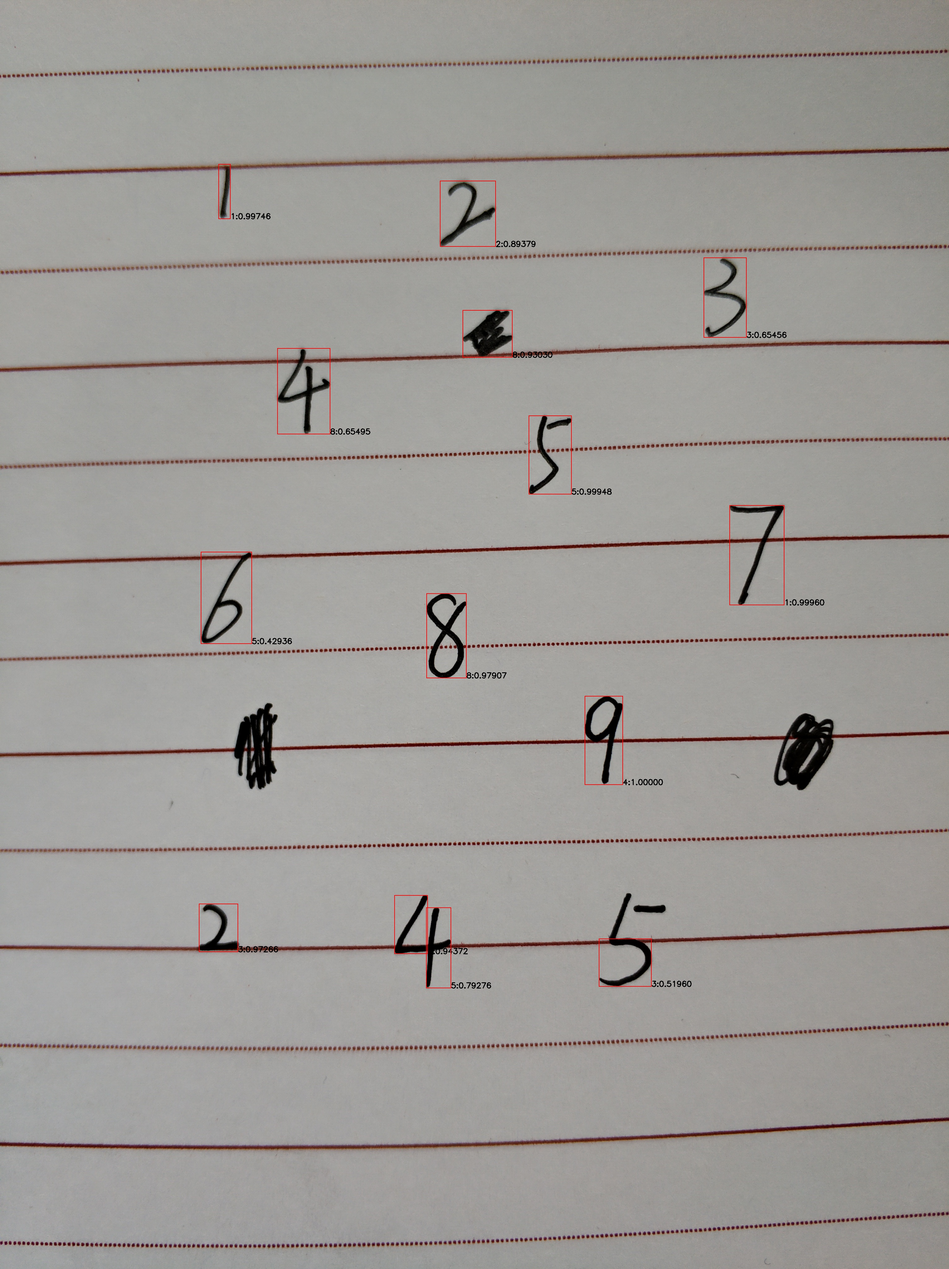
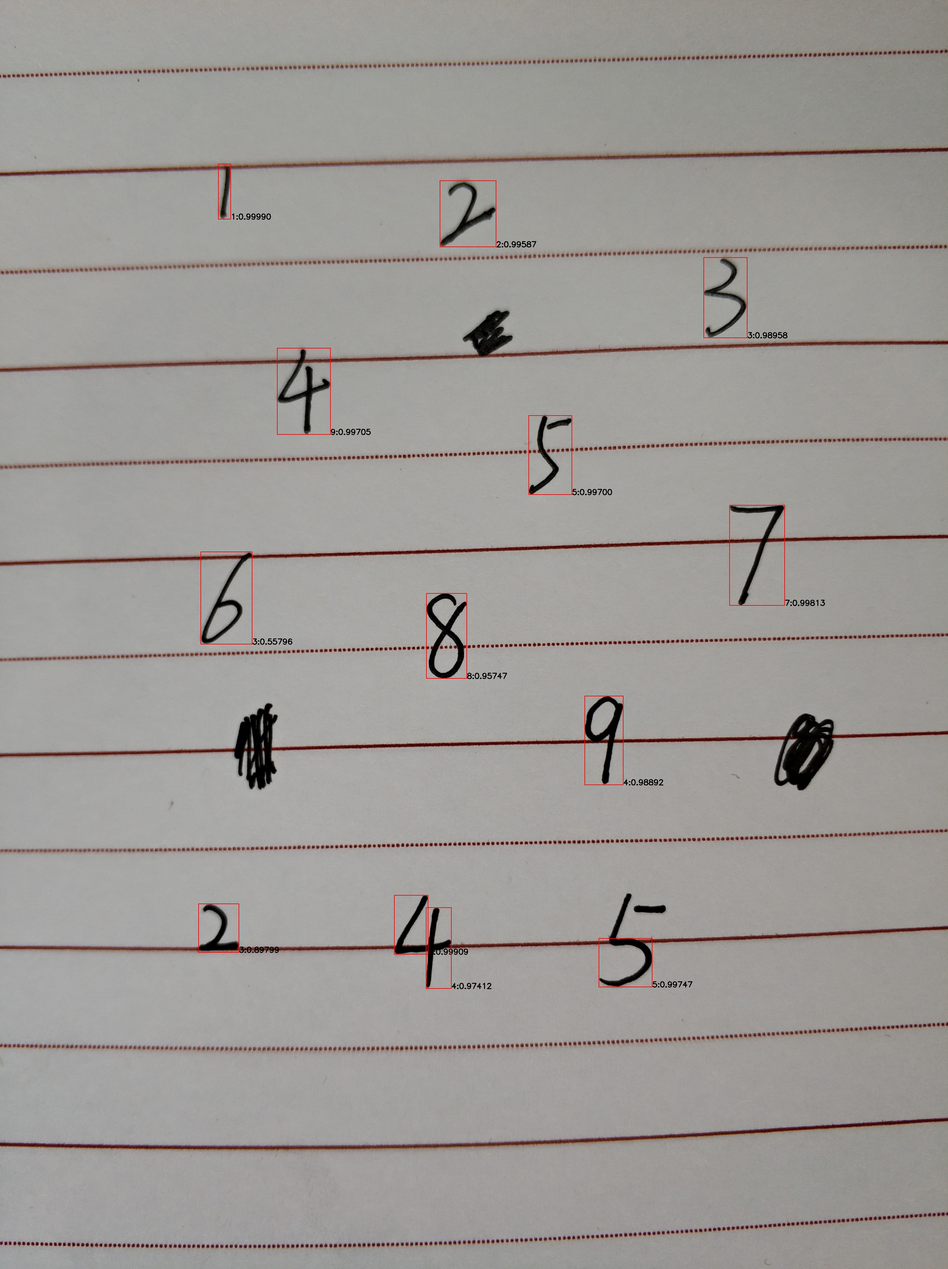
notebook detection2

diff --git a/detection2.py b/detection2.py
@@ -1,0 +1,306 @@
+# 对将要识别的图片进行二值化、广搜并画出红框，对框内数字进行识别
+# 背景作业本，要求手写的数字不粘连，允许噪点和污渍
+import cv2
+import queue
+import numpy
+from pylab import *
+from delete_line import *
+import tensorflow as tf
+from tensorflow.examples.tutorials.mnist import input_data
+
+mnist = input_data.read_data_sets("MNIST_data/", one_hot=True) # 获取数据集
+
+# 机器学习模型
+def weight_variable(shape):
+    initial = tf.truncated_normal(shape, stddev=0.1)
+    return tf.Variable(initial)
+
+def bias_variable(shape):
+    initial = tf.constant(0.1, shape=shape)
+    return tf.Variable(initial)
+
+# 加载数据
+mnist = input_data.read_data_sets("MNIST_data/", one_hot=True)
+x = tf.placeholder(tf.float32, [None, 784])
+W1 = tf.Variable(tf.truncated_normal([784, 500], stddev=0.1))
+b1 = tf.Variable(tf.zeros([500]))
+W2 = tf.Variable(tf.truncated_normal([500, 10], stddev=0.1))
+b2 = tf.Variable(tf.zeros([10]))
+layer1 = tf.nn.relu(tf.matmul(x, W1) + b1)
+y = tf.matmul(layer1, W2) + b2
+
+# 正确的样本标签
+y_ = tf.placeholder(tf.float32, [None, 10])
+
+# 损失函数选择softmax后的交叉熵，结果作为y的输出
+cross_entropy = tf.reduce_mean(
+    tf.nn.softmax_cross_entropy_with_logits(labels=y_, logits=y))
+train_step = tf.train.GradientDescentOptimizer(0.5).minimize(cross_entropy)
+
+sess = tf.InteractiveSession()
+tf.global_variables_initializer().run()
+correct_prediction = tf.equal(tf.argmax(y, 1), tf.argmax(y_, 1))
+accuracy = tf.reduce_mean(tf.cast(correct_prediction, tf.float32))
+keep_prob = tf.placeholder(tf.float32)
+# 训练过程
+for i in range(10000):
+    batch_x, batch_y = mnist.train.next_batch(50)
+    sess.run(train_step, feed_dict={x: batch_x, y_: batch_y})
+# 使用测试集评估准确率
+train_accuracy = accuracy.eval(feed_dict={
+    x: batch_x, y_: batch_y, keep_prob: 0})
+correct_prediction = tf.equal(tf.argmax(y, 1), tf.argmax(y_, 1))
+accuracy = tf.reduce_mean(tf.cast(correct_prediction, tf.float32))
+print('test accuracy')
+print(sess.run(accuracy, feed_dict={x: mnist.test.images,
+                                    y_: mnist.test.labels}))
+
+
+# image deal
+q = queue.Queue() # 广搜队列
+buf = queue.Queue() # 缓冲队列
+half_buf = queue.Queue() # 干扰线像素缓冲队列
+
+def bfs(img,vis):
+    x_size = img.shape[0]
+    y_size = img.shape[1]
+    first = q.get()
+    up_border = first[0]
+    left_border = first[1]
+    dowm_border = first[0]
+    right_border = first[1]
+    count=0
+    q.put(first)
+    while(not q.empty()):
+        p = q.get()
+        buf.put(p)
+        count=count+1
+        if(p[0]>dowm_border): dowm_border=p[0]
+        if(p[1]>right_border): right_border=p[1]
+        if(p[0]<up_border):
+            up_border=p[0]
+            first = (p[0],first[1])
+        if(p[1]<left_border):
+            left_border=p[1]
+            first = (first[0],p[1])
+        left = (p[0] - 1, p[1])
+        right = (p[0] + 1, p[1])
+        up = (p[0], p[1] - 1)
+        down = (p[0], p[1] + 1)
+        if (left[0] >= 0 and vis[left[0]][left[1]] == 0 and img[left[0],left[1]]<30):
+            q.put(left)
+            vis[left[0]][left[1]] = 1
+        if (right[0] < x_size and vis[right[0]][right[1]] == 0 and img[right[0],right[1]]<30):
+            q.put(right)
+            vis[right[0]][right[1]] = 1
+        if (up[1] >= 0 and vis[up[0]][up[1]] == 0 and img[up[0],up[1]]<30):
+            q.put(up)
+            vis[up[0]][up[1]] = 1
+        if (down[1] < y_size and vis[down[0]][down[1]] == 0 and img[down[0],down[1]]<30):
+            q.put(down)
+            vis[down[0]][down[1]] = 1
+        if (left[0] >= 0 and vis[left[0]][left[1]] == 0 and img[left[0],left[1]]==128):
+            q.put(left)
+            half_buf.put(left)
+            vis[left[0]][left[1]] = 1
+        if (right[0] < x_size and vis[right[0]][right[1]] == 0 and img[right[0],right[1]]==128):
+            q.put(right)
+            half_buf.put(right)
+            vis[right[0]][right[1]] = 1
+    while(not half_buf.empty()):
+        p = half_buf.get()
+        q.put(p)
+    while (not q.empty()):
+        p = q.get()
+        half_buf.put(p)
+        count=count+1
+        left = (p[0] - 1, p[1])
+        right = (p[0] + 1, p[1])
+        up = (p[0], p[1] - 1)
+        down = (p[0], p[1] + 1)
+        if (up[1] >= 0 and up[1]>=left_border and vis[up[0]][up[1]] == 0 and img[up[0], up[1]]==128):
+            q.put(up)
+            vis[up[0]][up[1]] = 1
+        if (down[1] < y_size and down[1]<=right_border and vis[down[0]][down[1]] == 0 and img[down[0], down[1]]==128):
+            q.put(down)
+            vis[down[0]][down[1]] = 1
+        if (left[0] >= 0 and vis[left[0]][left[1]] == 0 and img[left[0], left[1]] == 128):
+            q.put(left)
+            vis[left[0]][left[1]] = 1
+        if (right[0] < x_size and vis[right[0]][right[1]] == 0 and img[right[0], right[1]] == 128):
+            q.put(right)
+            vis[right[0]][right[1]] = 1
+    return (up_border,dowm_border,left_border,right_border,count)
+
+
+origin_img = cv2.imread("4.jpg")
+img = cv2.imread("4.jpg",0)
+img = del_line(img)
+x_size = img.shape[0]
+y_size = img.shape[1]
+visit = [[0 for y in range(y_size)] for x in range(x_size)]
+cnt=0
+for j in range(img.shape[1]):# 广搜
+    for i in range(img.shape[0]):
+        if (visit[i][j]==0 and img[i, j] < 30):
+            visit[i][j]=1
+            q.put((i,j));
+            box = bfs(img,visit) # 一个框
+            # 切分识别
+            height = box[1]-box[0]+1
+            width = box[3]-box[2]+1
+            if(height*width < 650):
+                while(not buf.empty()): buf.get()
+                while(not half_buf.empty()): half_buf.get()
+                continue # 排除掉很小的区域，肯定是噪点
+            if(width>height/3 and box[4]>(height*width)/9*5):
+                while (not buf.empty()): buf.get()
+                while (not half_buf.empty()): half_buf.get()
+                continue  # 排除掉黑点占比很大的区域，肯定是污渍
+            if(height > width):
+                bias = (height - width) >> 1
+                simple_img = numpy.zeros((height,height))
+                while(not buf.empty()):
+                    p = buf.get()
+                    simple_img[p[0]-box[0],p[1]-box[2]+bias] = 255
+            else:
+                bias = (width - height) >> 1
+                simple_img = numpy.zeros((width, width))
+                while (not buf.empty()):
+                    p = buf.get()
+                    simple_img[p[0]-box[0]+bias, p[1]-box[2]] = 255
+            #机器学习模型尝试
+            mnist_img = cv2.resize(simple_img, (28, 28))
+            cv2.imwrite("./data/%s.jpg"%cnt,mnist_img)
+            cnt=cnt+1
+            for ii in range(28):
+                for jj in range(28):
+                    mnist_img[ii, jj] = mnist_img[ii, jj] / 255
+            mnist_array = numpy.reshape(mnist_img, (1, 784))
+            mnist_array = mnist_array.astype(numpy.float32)
+            result = tf.arg_max(y,1)  # 计算数字概率
+            prob = tf.nn.softmax(y)
+            cal_y0 = sess.run(prob, feed_dict={x: mnist_array})
+            cal_re0 = sess.run(result, feed_dict={x: mnist_array})
+
+            if (height > width):
+                bias = (height - width) >> 1
+                while (not half_buf.empty()):
+                    p = half_buf.get()
+                    simple_img[p[0] - box[0], p[1] - box[2] + bias] = 255
+            else:
+                bias = (width - height) >> 1
+                while (not half_buf.empty()):
+                    p = half_buf.get()
+                    simple_img[p[0] - box[0] + bias, p[1] - box[2]] = 255
+                    # 机器学习模型尝试
+            mnist_img = cv2.resize(simple_img, (28, 28))
+            cv2.imwrite("./data/%s.jpg" % cnt, mnist_img)
+            cnt = cnt + 1
+            for ii in range(28):
+                for jj in range(28):
+                    mnist_img[ii, jj] = mnist_img[ii, jj] / 255
+            mnist_array = numpy.reshape(mnist_img, (1, 784))
+            mnist_array = mnist_array.astype(numpy.float32)
+            cal_y1 = sess.run(prob, feed_dict={x: mnist_array})
+            cal_re1 = sess.run(result, feed_dict={x: mnist_array})
+
+            if(cal_y0[0][cal_re0[0]] > cal_y1[0][cal_re1[0]]):
+                cal_y = cal_y0
+                cal_re = cal_re0
+            else:
+                cal_y = cal_y1
+                cal_re = cal_re1
+
+            if(cal_re[0]==5 or cal_re[0]==3): # 探查‘5’的笔画分离问题
+                if (height > width):
+                    for ii in range(height>>1):
+                        for jj in range(width):
+                            if(simple_img[ii,jj+bias] == img[ii+box[0],jj+box[2]] and visit[ii+box[0]][jj+box[2]]==0):
+                                for iii in range(height):
+                                    for jjj in range(width):
+                                        if(simple_img[iii,jjj+bias] == 255): buf.put((iii+box[0],jjj+box[2]))
+                                visit[ii+box[0]][jj+box[2]] = 1
+                                q.put((ii+box[0], jj+box[2]));
+                                expand = bfs(img,visit) # 一个框
+                                box0 = min(box[0],expand[0])
+                                box1 = max(box[1],expand[1])
+                                box2 = min(box[2],expand[2])
+                                box3 = max(box[3],expand[3])
+                                box = (box0,box1,box2,box3)
+                                height = box[1] - box[0]+1
+                                width = box[3] - box[2]+1
+                                if (height > width):
+                                    bias = (height - width) >> 1
+                                    simple_img = numpy.zeros((height, height))
+                                    while (not buf.empty()):
+                                        p = buf.get()
+                                        simple_img[p[0] - box[0], p[1] - box[2] + bias] = 255 - img[p[0], p[1]]
+                                else:
+                                    bias = (width - height) >> 1
+                                    simple_img = numpy.zeros((width, width))
+                                    while (not buf.empty()):
+                                        p = buf.get()
+                                        simple_img[p[0] - box[0] + bias, p[1] - box[2]] = 255 - img[p[0], p[1]]
+                else:
+                    for ii in range(height>>1):
+                        for jj in range(width):
+                            if(simple_img[ii+bias,jj] == img[ii+box[0],jj+box[2]] and visit[ii+box[0]][jj+box[2]]==0):
+                                for iii in range(height):
+                                    for jjj in range(width):
+                                        if(simple_img[iii+bias,jjj] == 255): buf.put((iii+box[0],jjj+box[2]))
+                                visit[ii+box[0]][jj+box[2]] = 1
+                                q.put((ii+box[0], jj+box[2]));
+                                expand = bfs(img,visit) # 一个框
+                                box0 = min(box[0], expand[0])
+                                box1 = max(box[1], expand[1])
+                                box2 = min(box[2], expand[2])
+                                box3 = max(box[3], expand[3])
+                                height = box[1] - box[0]+1
+                                width = box[3] - box[2]+1
+                                if (height > width):
+                                    bias = (height - width) >> 1
+                                    simple_img = numpy.zeros((height, height))
+                                    while (not buf.empty()):
+                                        p = buf.get()
+                                        simple_img[p[0] - box[0], p[1] - box[2] + bias] = 255 - img[p[0], p[1]]
+                                else:
+                                    bias = (width - height) >> 1
+                                    simple_img = numpy.zeros((width, width))
+                                    while (not buf.empty()):
+                                        p = buf.get()
+                                        simple_img[p[0] - box[0] + bias, p[1] - box[2]] = 255 - img[p[0], p[1]]
+                mnist_img = cv2.resize(simple_img, (28, 28))
+                cv2.imwrite("./data/%s.jpg" % cnt, mnist_img)
+                cnt = cnt + 1
+                for ii in range(28):
+                    for jj in range(28):
+                        mnist_img[ii, jj] = mnist_img[ii, jj] / 255
+                mnist_array = numpy.reshape(mnist_img, (1, 784))
+                mnist_array = mnist_array.astype(numpy.float32)
+                result = tf.arg_max(y, 1)  # 计算数字概率
+                prob = tf.nn.softmax(y)
+                cal_y = sess.run(prob, feed_dict={x: mnist_array})
+                cal_re = sess.run(result, feed_dict={x: mnist_array})
+            # 画边框
+            boxj = box[2]
+            while (boxj <= box[3]):
+                origin_img[box[0], boxj] = (0, 0, 255)
+                origin_img[box[1], boxj] = (0, 0, 255)
+                origin_img[box[0] + 1, boxj] = (0, 0, 255)
+                origin_img[box[1] - 1, boxj] = (0, 0, 255)
+                boxj = boxj + 1
+            boxi = box[0]
+            while (boxi <= box[1]):
+                origin_img[boxi, box[2]] = (0, 0, 255)
+                origin_img[boxi, box[3]] = (0, 0, 255)
+                origin_img[boxi, box[2] + 1] = (0, 0, 255)
+                origin_img[boxi, box[3] - 1] = (0, 0, 255)
+                boxi = boxi + 1
+            #写数字
+            str = "%s:"%cal_re[0]
+            str = str + "%.5f"%cal_y[0][cal_re[0]]
+            font = cv2.FONT_HERSHEY_SIMPLEX  # 使用默认字体
+            origin_img = cv2.putText(origin_img, str, (box[3], box[1]), font, 0.8, 0, 2)
+cv2.imwrite("5.jpg",origin_img)
+print("finish detect")
